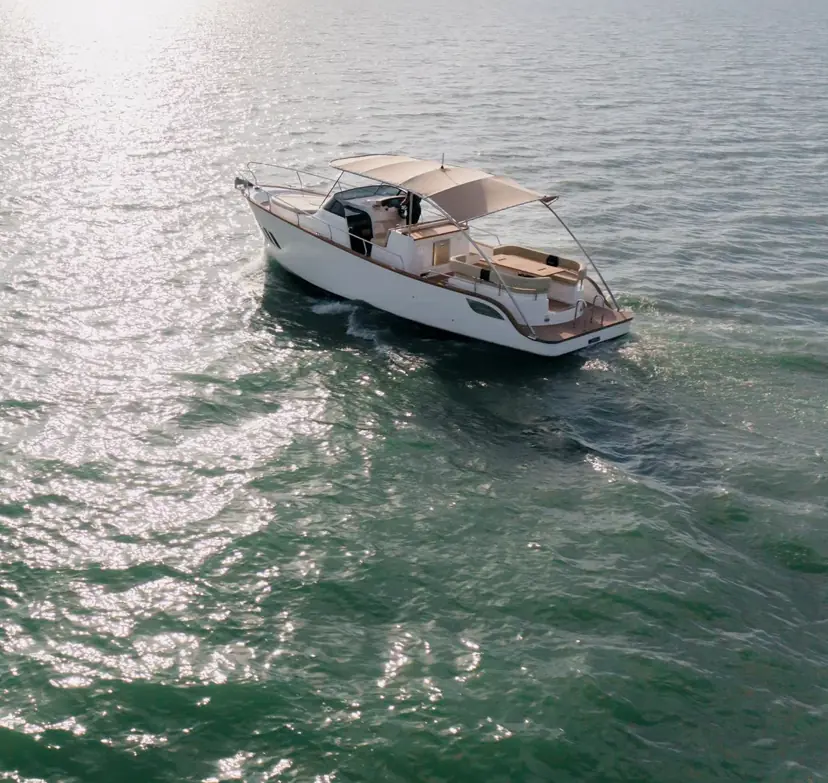
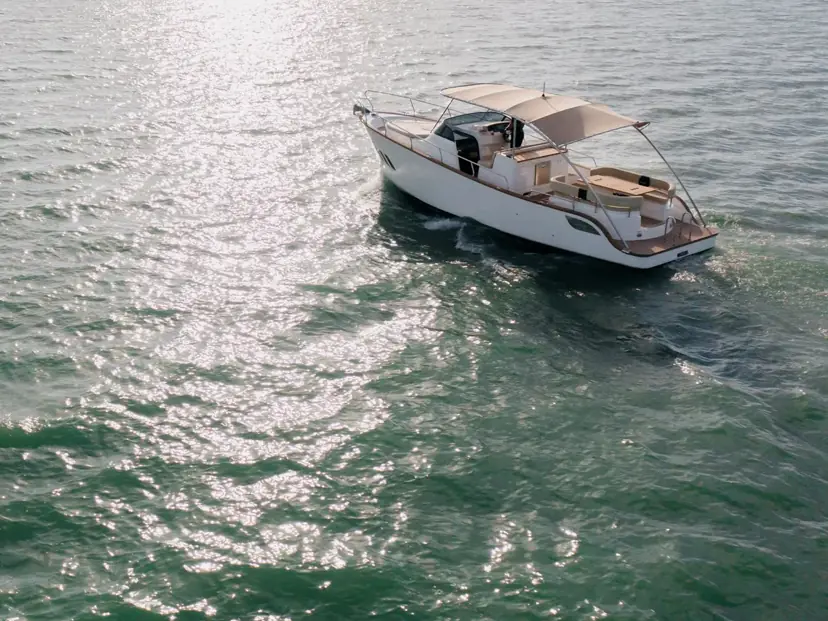
feat: l'escena de l'inici mòbil porta el vaixell a un espai sense text (nou retall de hero-m i espai superior)

diff --git a/site/css/page.css b/site/css/page.css
@@ -87,13 +87,14 @@ select:focus-visible { outline: 2px solid var(--focus); outline-offset: 2px; }
 .page__top .wordmark { display: inline-flex; align-items: center; min-height: var(--tap-min-compact); text-decoration: none; }
 .site__top .tsf-lang__select { background: transparent; color: var(--on-navy); border-color: var(--on-navy); }
 .site__top .tsf-lang::after { border-top-color: var(--on-navy); }
+/* Inici (mòbil): el retall de hero-m porta el vaixell a dalt a la dreta; el padding superior (7.5rem) li deixa un espai lliure de text, entre la capçalera i el títol. */
 /* Inici: la fotografia ocupa l'escena i la capçalera hi va a sobre. */
 .site--entry .site__top { position: absolute; inset: 0 0 auto 0; z-index: 2; background: none; }
 .site--entry .page__main { max-width: none; padding: 0; gap: 0; }
 .page__screen--entry { gap: 0; }
 .stage {
-  display: flex; flex-direction: column; justify-content: flex-end; box-sizing: border-box; padding: 5rem var(--gutter) var(--space-4);
-  background: linear-gradient(var(--overlay-hero), var(--overlay-hero)), linear-gradient(var(--overlay-hero), var(--overlay-hero)), url("../img/hero-m.webp") 60% 0% / cover;
+  display: flex; flex-direction: column; justify-content: flex-end; box-sizing: border-box; padding: 7.5rem var(--gutter) var(--space-4);
+  background: linear-gradient(var(--overlay-hero), var(--overlay-hero)), linear-gradient(var(--overlay-hero), var(--overlay-hero)), url("../img/hero-m.webp") 50% 35% / cover;
   color: var(--on-navy);
 }
 .stage__copy { width: 100%; max-width: 560px; margin-inline: auto; box-sizing: border-box; }

diff --git a/README.md b/README.md
@@ -67,7 +67,7 @@ El flux és **actiu** (`extra1: true` a `config.js`, decidit el 9/10/2026 per a 
 - **`emailDelivery`** (`config.js`) és `false` fins que existeixi l'enviament del correu amb el dossier; només canvia el text de la confirmació.
 - **`dossierFileName`** (`config.js`, general i per model) només canvia el nom amb què es desa la descàrrega, no el fitxer de `site/`. Un model amb dossier propi n'ha de tenir un (el test de config ho exigeix); un sense dossier propi descarrega el general amb el nom del general.
 - **`site/dossier-prova.pdf` i `site/dossiers/*.pdf`** els genera `node scripts/make-test-pdf.mjs` i són de prova: han de ser els documents reals (un general i un per model; un model sense `dossierUrl` propi obre el general).
-- **Fotografia:** `site/img/hero-m.webp` (retall vertical per al mòbil, 81 KB) i `site/img/hero-d.webp` (1600 px, 149 KB) surten de la foto de The Silent Fleet; es veuen a l'inici (escena a tot sang amb el títol) i com a franja a la capçalera de la resta de pantalles i de la privacitat. Es substitueixen per fitxers del mateix nom (o es canvien les URL a `site/css/page.css`).
+- **Fotografia:** `site/img/hero-m.webp` (retall 4:3 per al mòbil amb el vaixell a dalt a la dreta, 75 KB) i `site/img/hero-d.webp` (1600 px, 149 KB) surten de la foto de The Silent Fleet; es veuen a l'inici (escena a tot sang amb el títol) i com a franja a la capçalera de la resta de pantalles i de la privacitat. Es substitueixen per fitxers del mateix nom (o es canvien les URL a `site/css/page.css`).
 - **Literals:** a `site/js/i18n-form.js`, de tu als 4 idiomes; el document es diu «dossier» fins que Bruno decideixi. «Ski / Wake» no es tradueix.
 - **Privacitat:** la pàgina mostra el text de l'Extra 1 (6 paràgrafs curts) amb `?extra1=1`; és un esborrany (no és assessorament legal).
 - **Accessibilitat:** indicador de pas amb `progressbar`, focus al títol en canviar de pantalla, errors enllaçats amb els camps i capçalera com a `<header>`.
